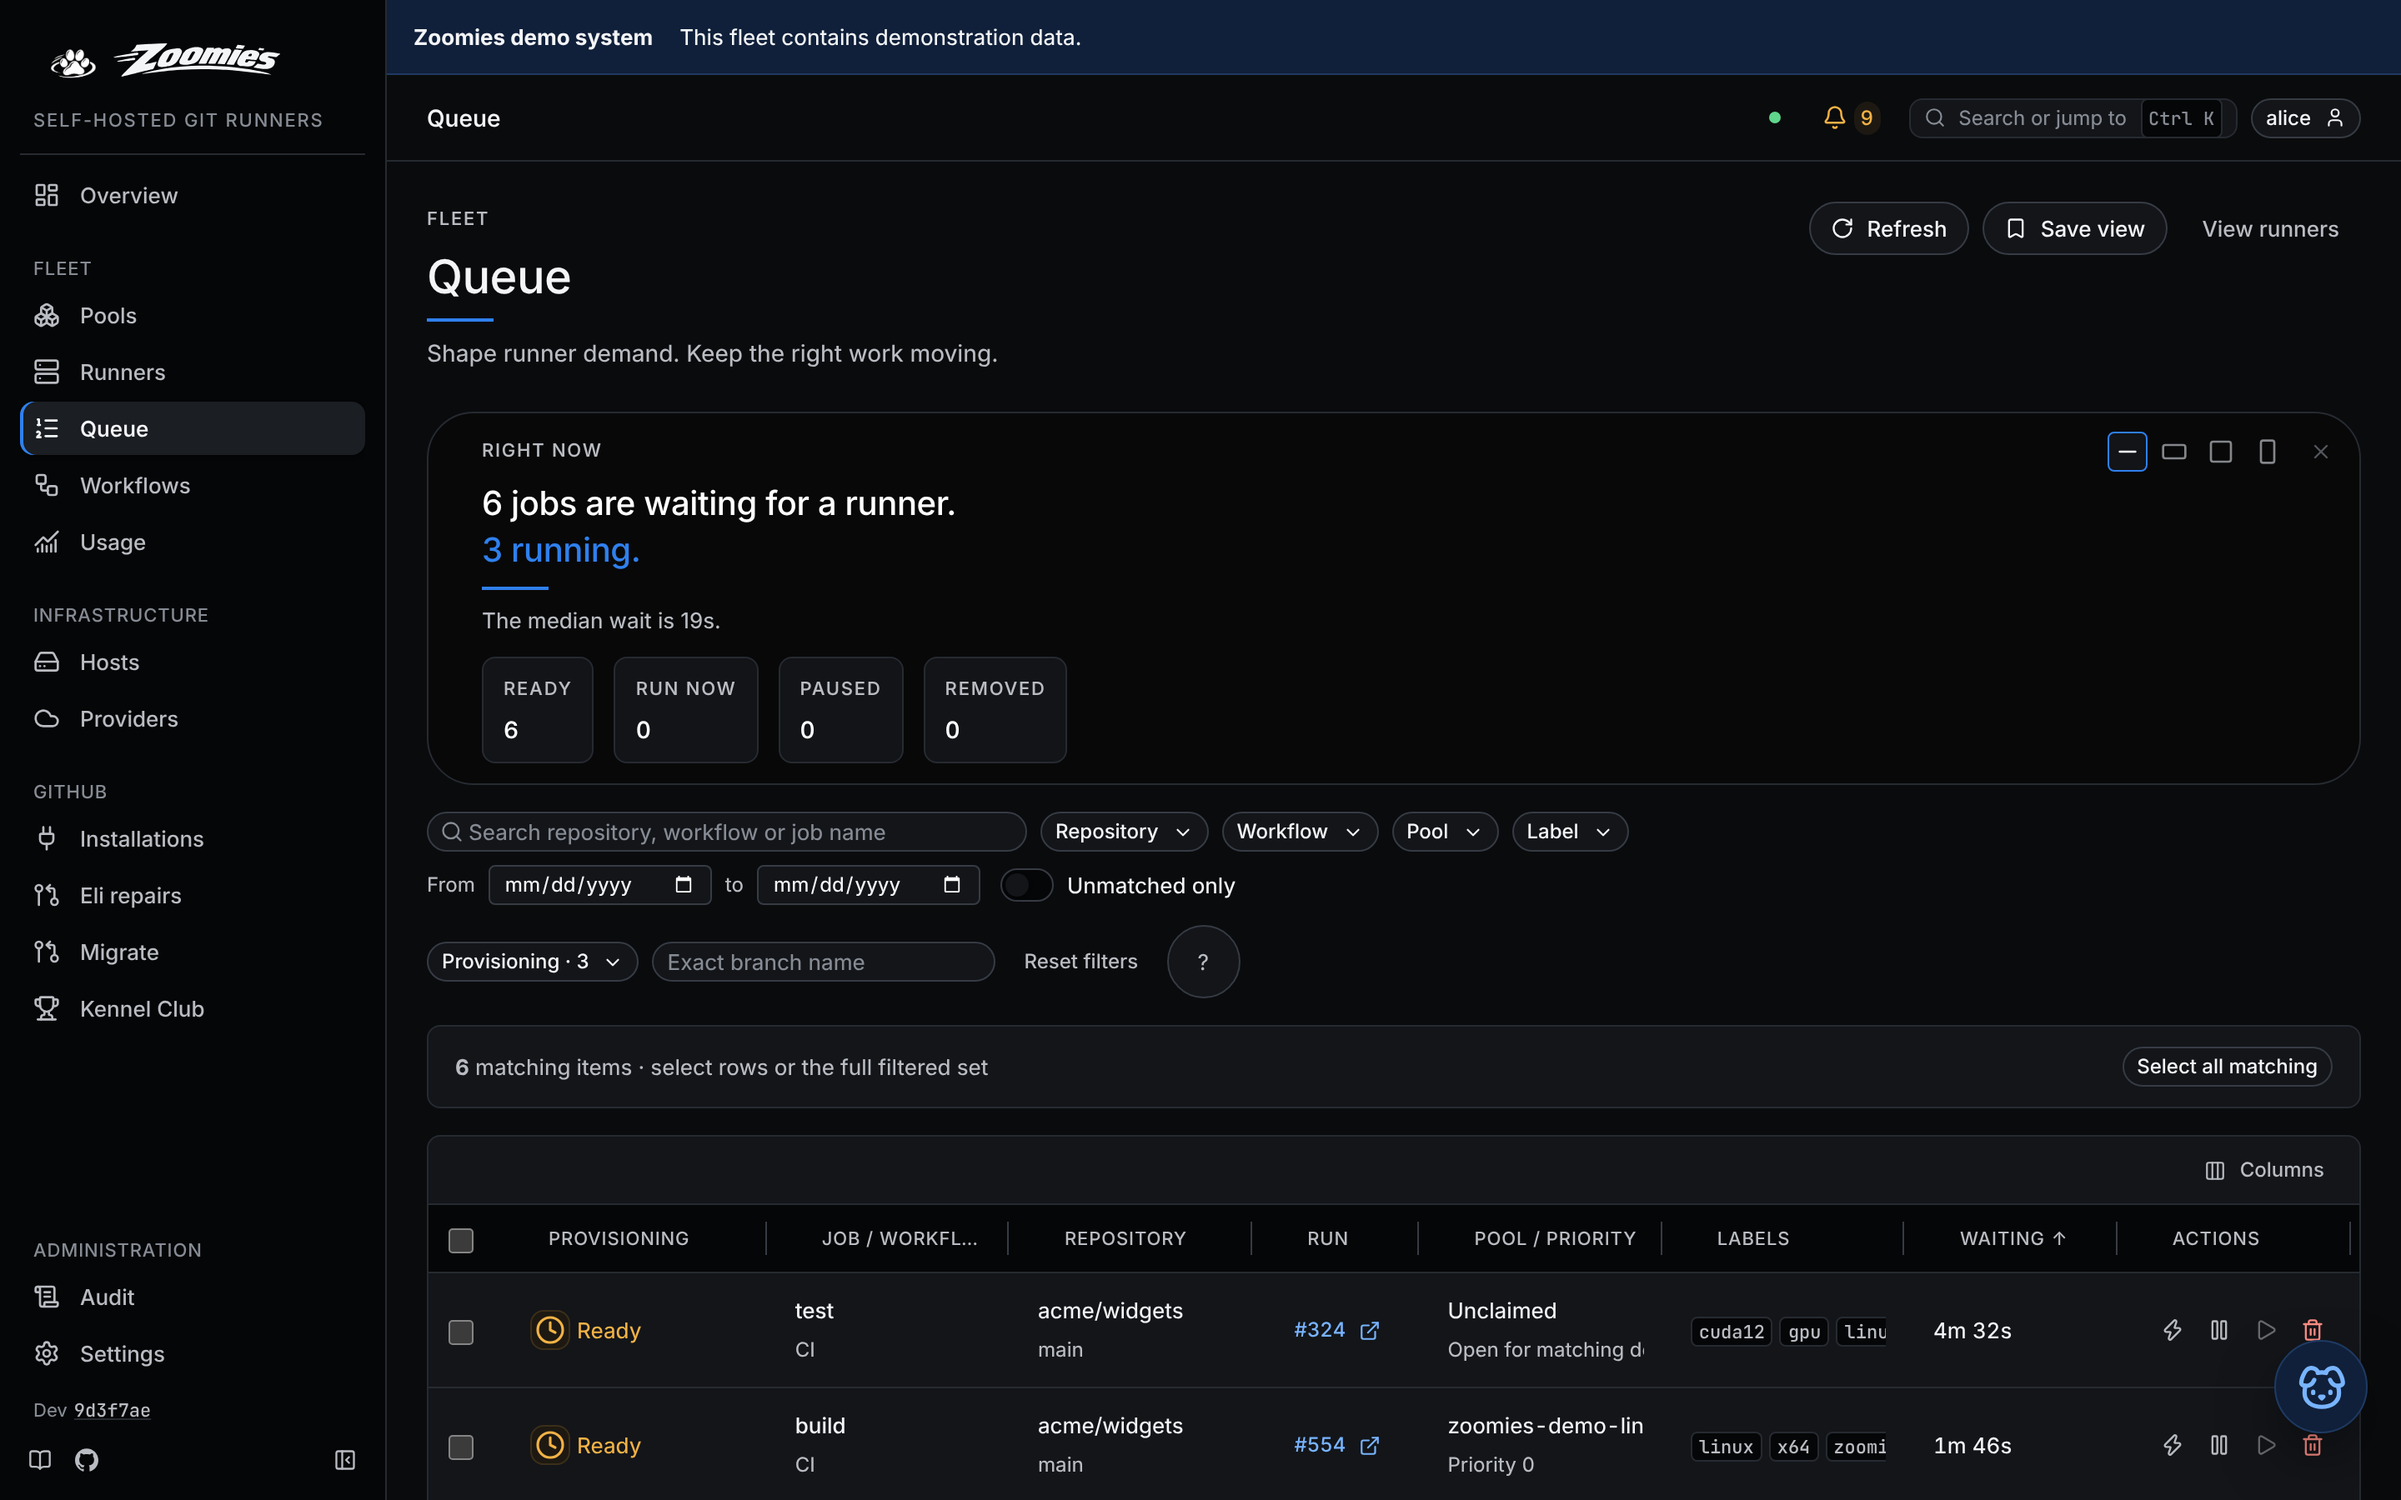
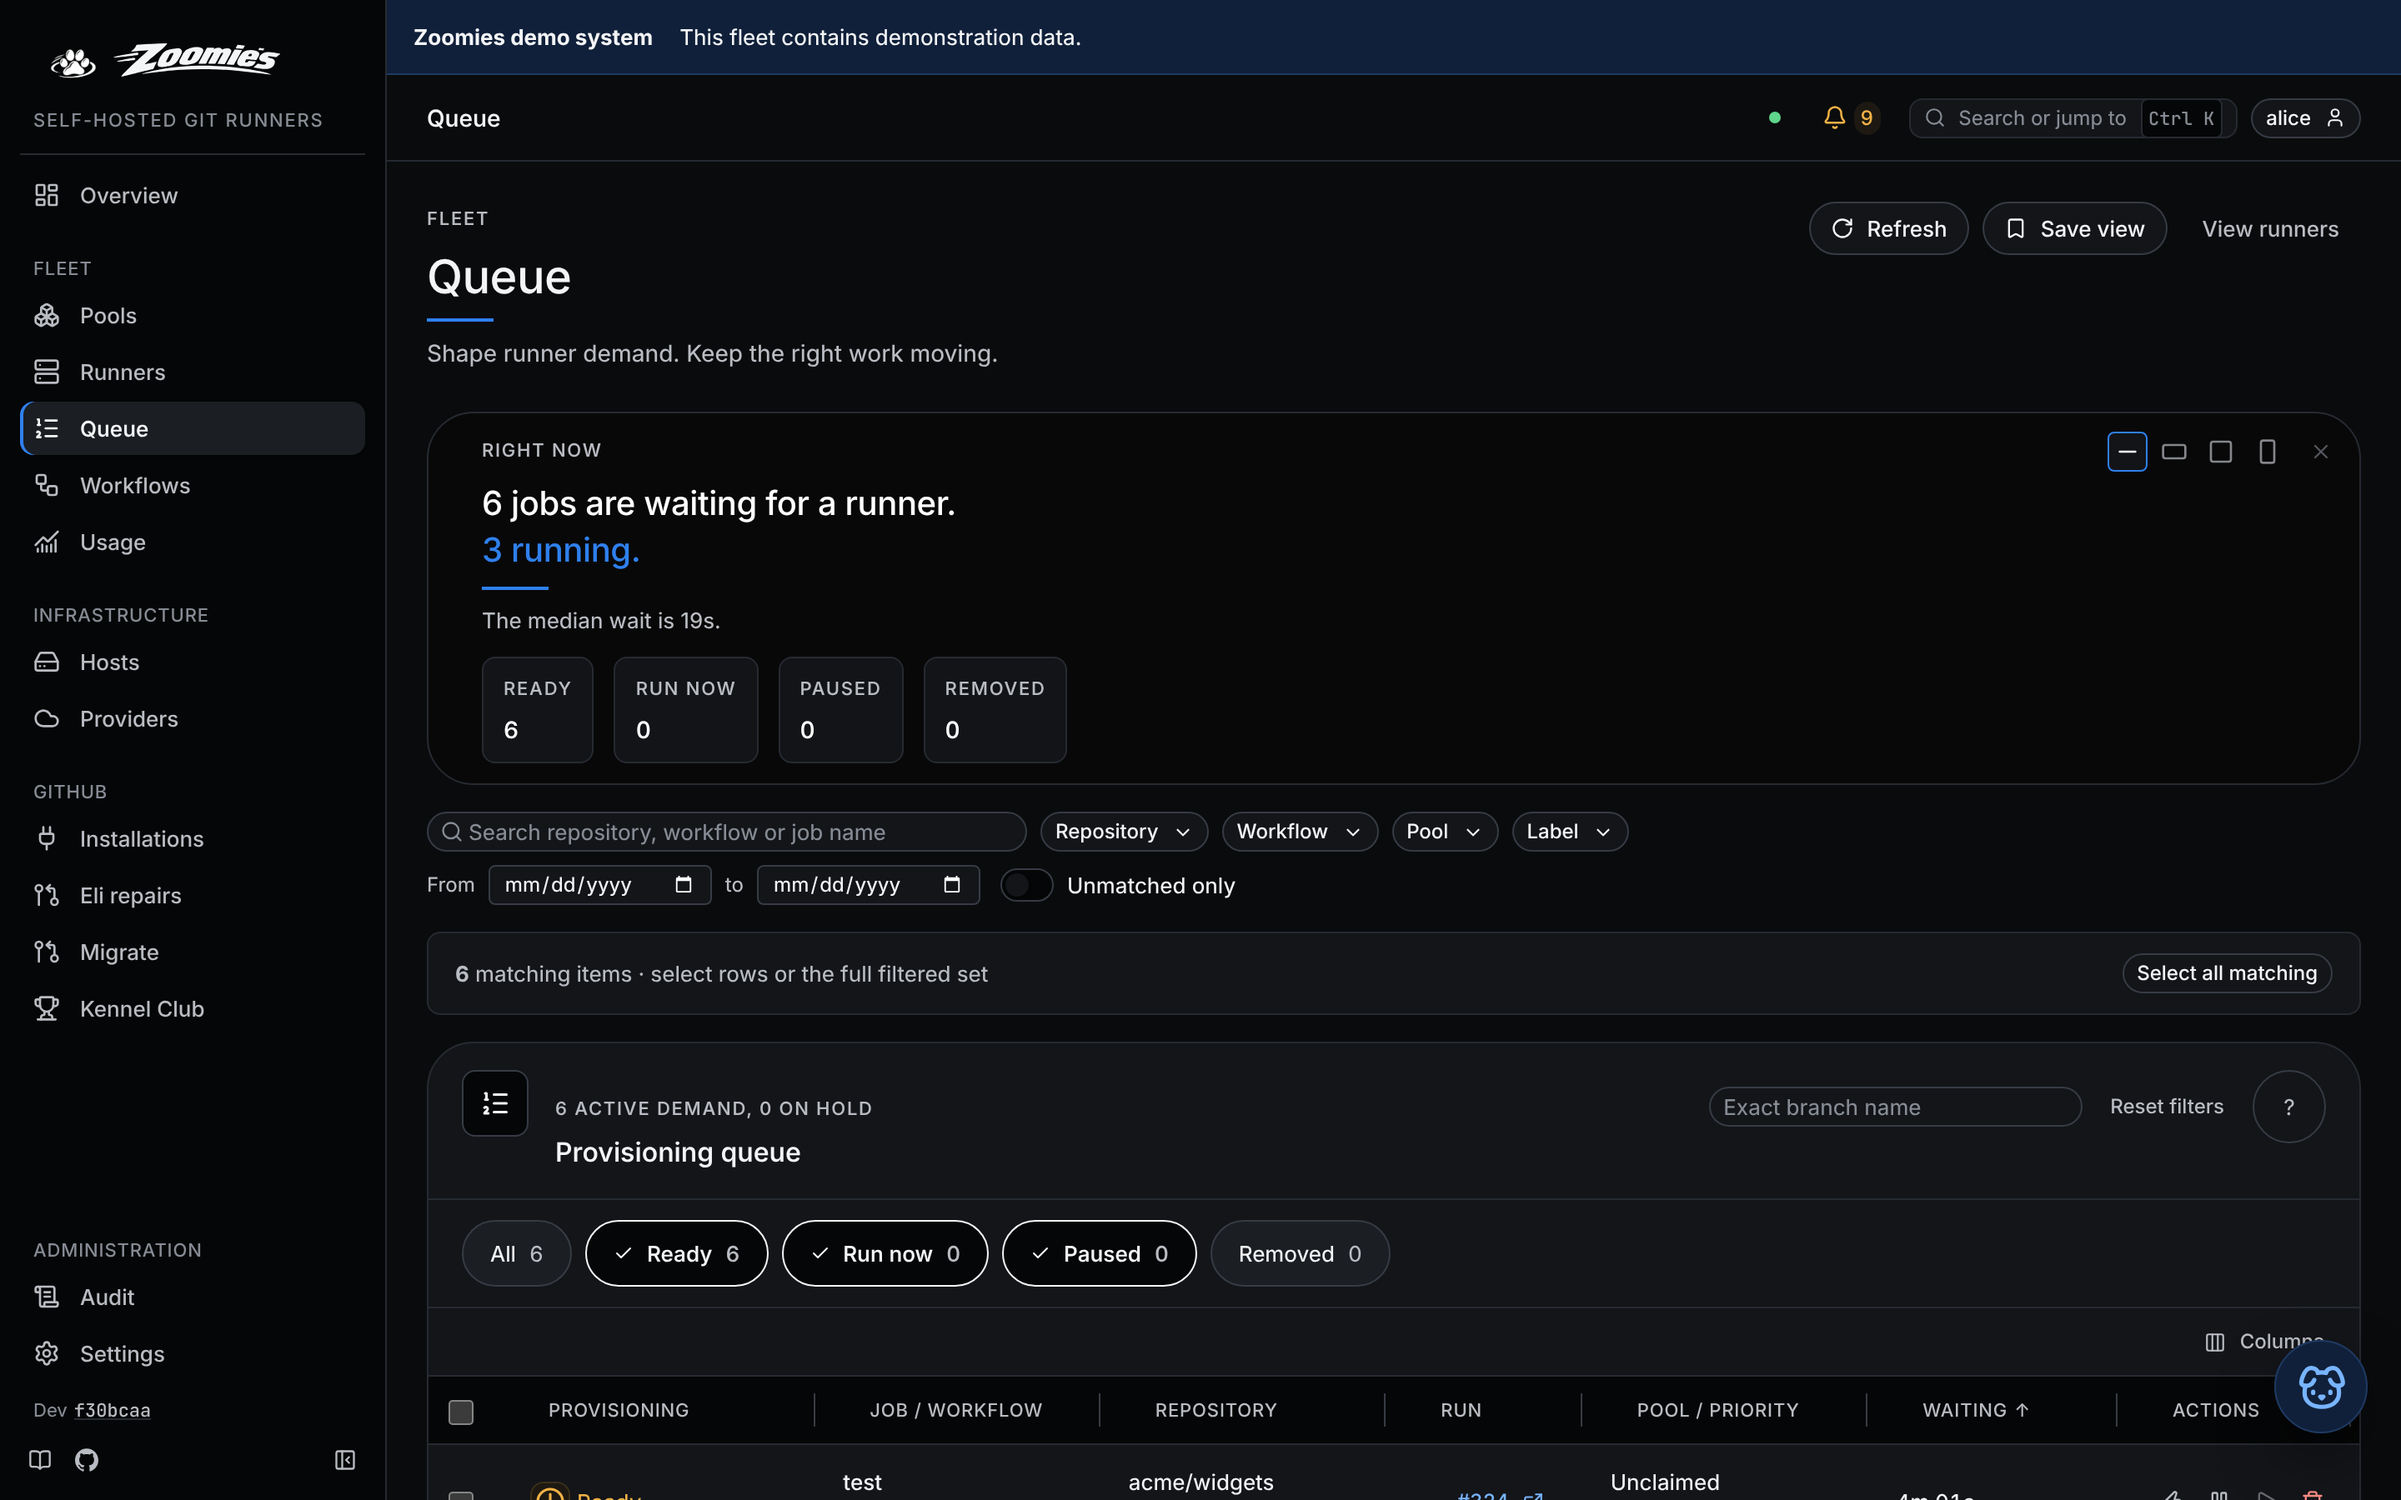
Recapture the Queue page as a card
Claude-Session: https://claude.ai/code/session_011MNNzpSBoWt2yKP9iPNjbP

diff --git a/docs/ui.md b/docs/ui.md
@@ -350,8 +350,8 @@ is not for this fleet, so it stops counting as queued everywhere; the
 Overview's queue depth and pool bars, `zoomies_jobs_queued` and the queue age
 with it. Restoring it from the Removed view puts it back.
 
-![The Queue page: a band saying how many jobs are waiting, then status filters above the provisioning table, with demand and ordering folded under it](screenshots/queue-dark.webp#only-dark){ .zoomies-shot }
-![The Queue page: a band saying how many jobs are waiting, then status filters above the provisioning table, with demand and ordering folded under it](screenshots/queue-light.webp#only-light){ .zoomies-shot }
+![The Queue page: a band saying how many jobs are waiting, the job filters, then one card with the active demand over its title, the four provisioning statuses as chips and the table inside, with demand and ordering folded under it](screenshots/queue-dark.webp#only-dark){ .zoomies-shot }
+![The Queue page: a band saying how many jobs are waiting, the job filters, then one card with the active demand over its title, the four provisioning statuses as chips and the table inside, with demand and ordering folded under it](screenshots/queue-light.webp#only-light){ .zoomies-shot }
 
 ## Workflows
 
